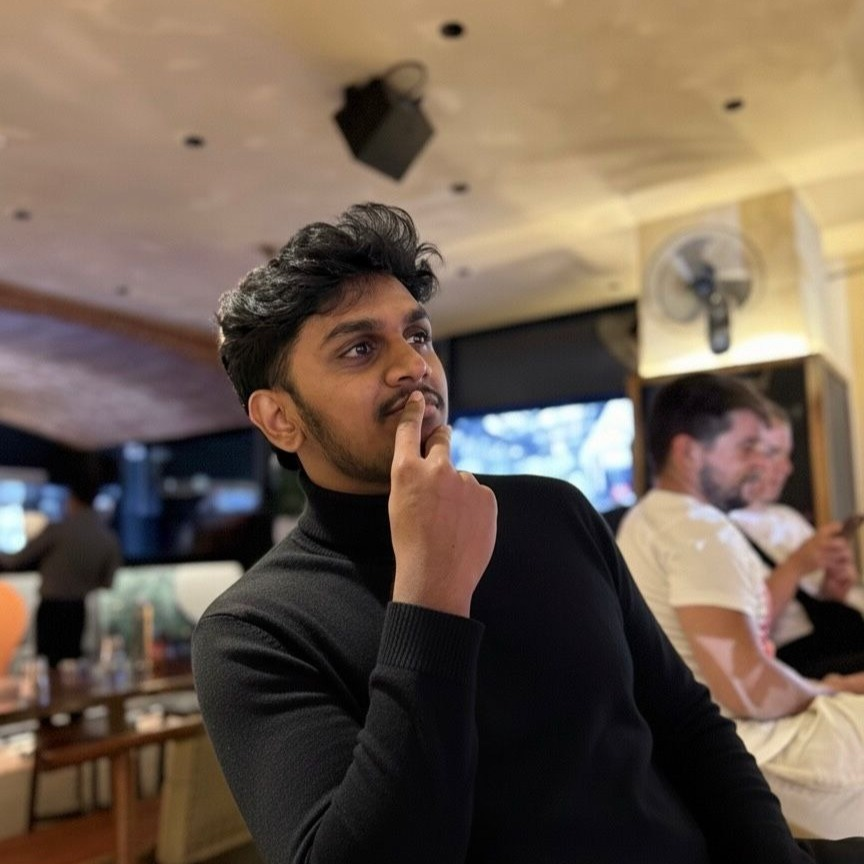
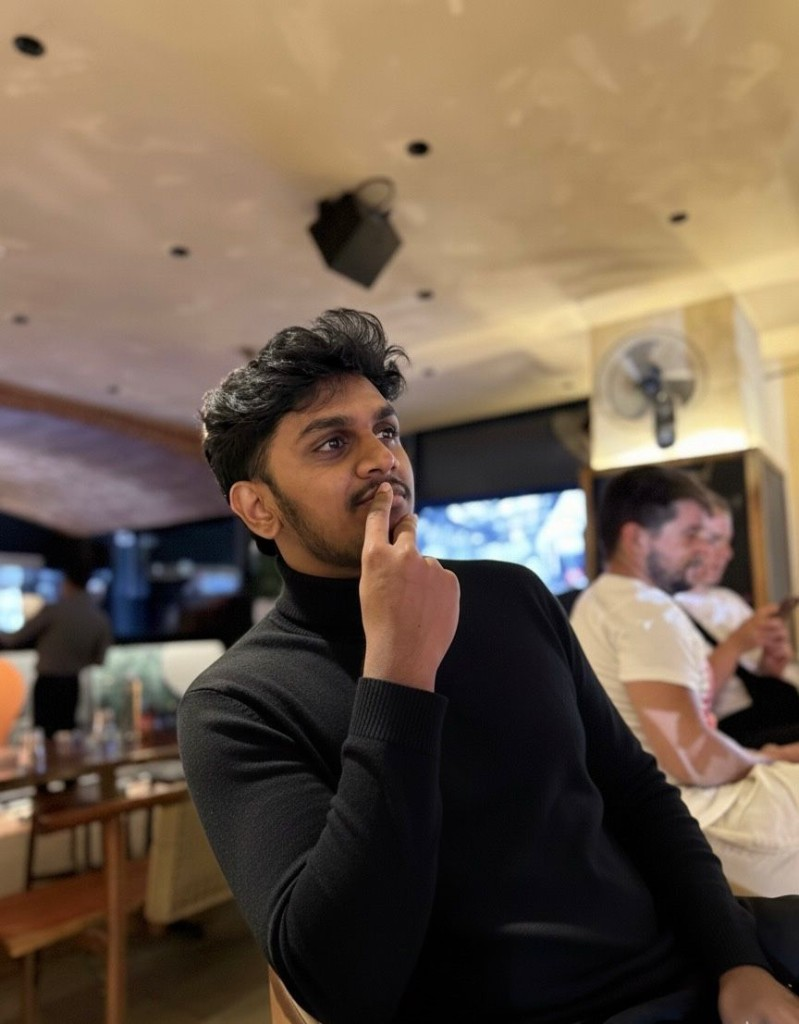
Fix profile photo path for GitHub Pages and use the new portrait.

diff --git a/src/components/Profile.tsx b/src/components/Profile.tsx
@@ -1,7 +1,7 @@
 import { motion, useReducedMotion } from 'framer-motion'
 
-/** Profile photo synced from your Linktree */
-const PROFILE_IMAGE = '/profile.jpg'
+/** Profile photo — BASE_URL is required for GitHub Pages (/vision/) */
+const PROFILE_IMAGE = `${import.meta.env.BASE_URL}profile.jpg`
 
 export function Profile() {
   const reduceMotion = useReducedMotion()
@@ -38,7 +38,7 @@ export function Profile() {
           <img
             src={PROFILE_IMAGE}
             alt="@kadaliaswinkumar"
-            className="h-full w-full object-cover"
+            className="h-full w-full object-cover object-[center_18%]"
             width={112}
             height={112}
           />

diff --git a/index.html b/index.html
@@ -2,7 +2,7 @@
 <html lang="en">
   <head>
     <meta charset="UTF-8" />
-    <link rel="icon" type="image/svg+xml" href="/favicon.svg" />
+    <link rel="icon" type="image/svg+xml" href="%BASE_URL%favicon.svg" />
     <meta name="viewport" content="width=device-width, initial-scale=1.0" />
     <meta
       name="description"
